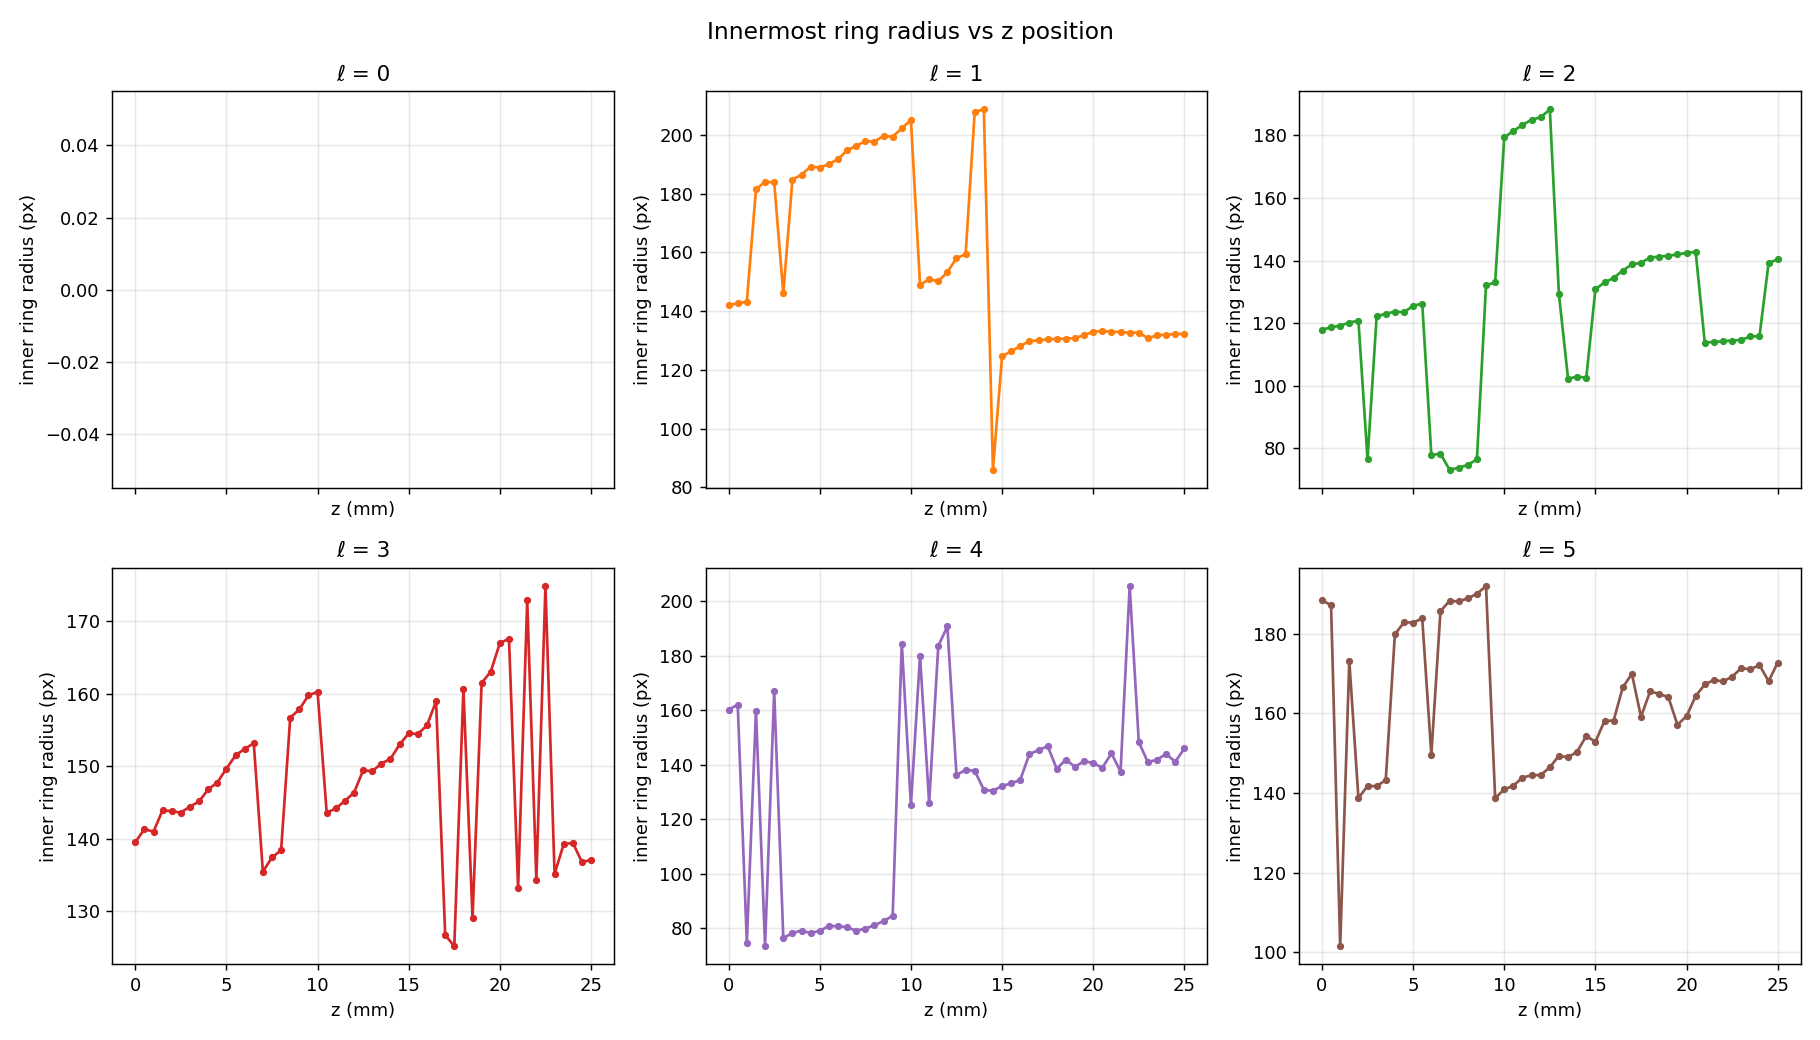
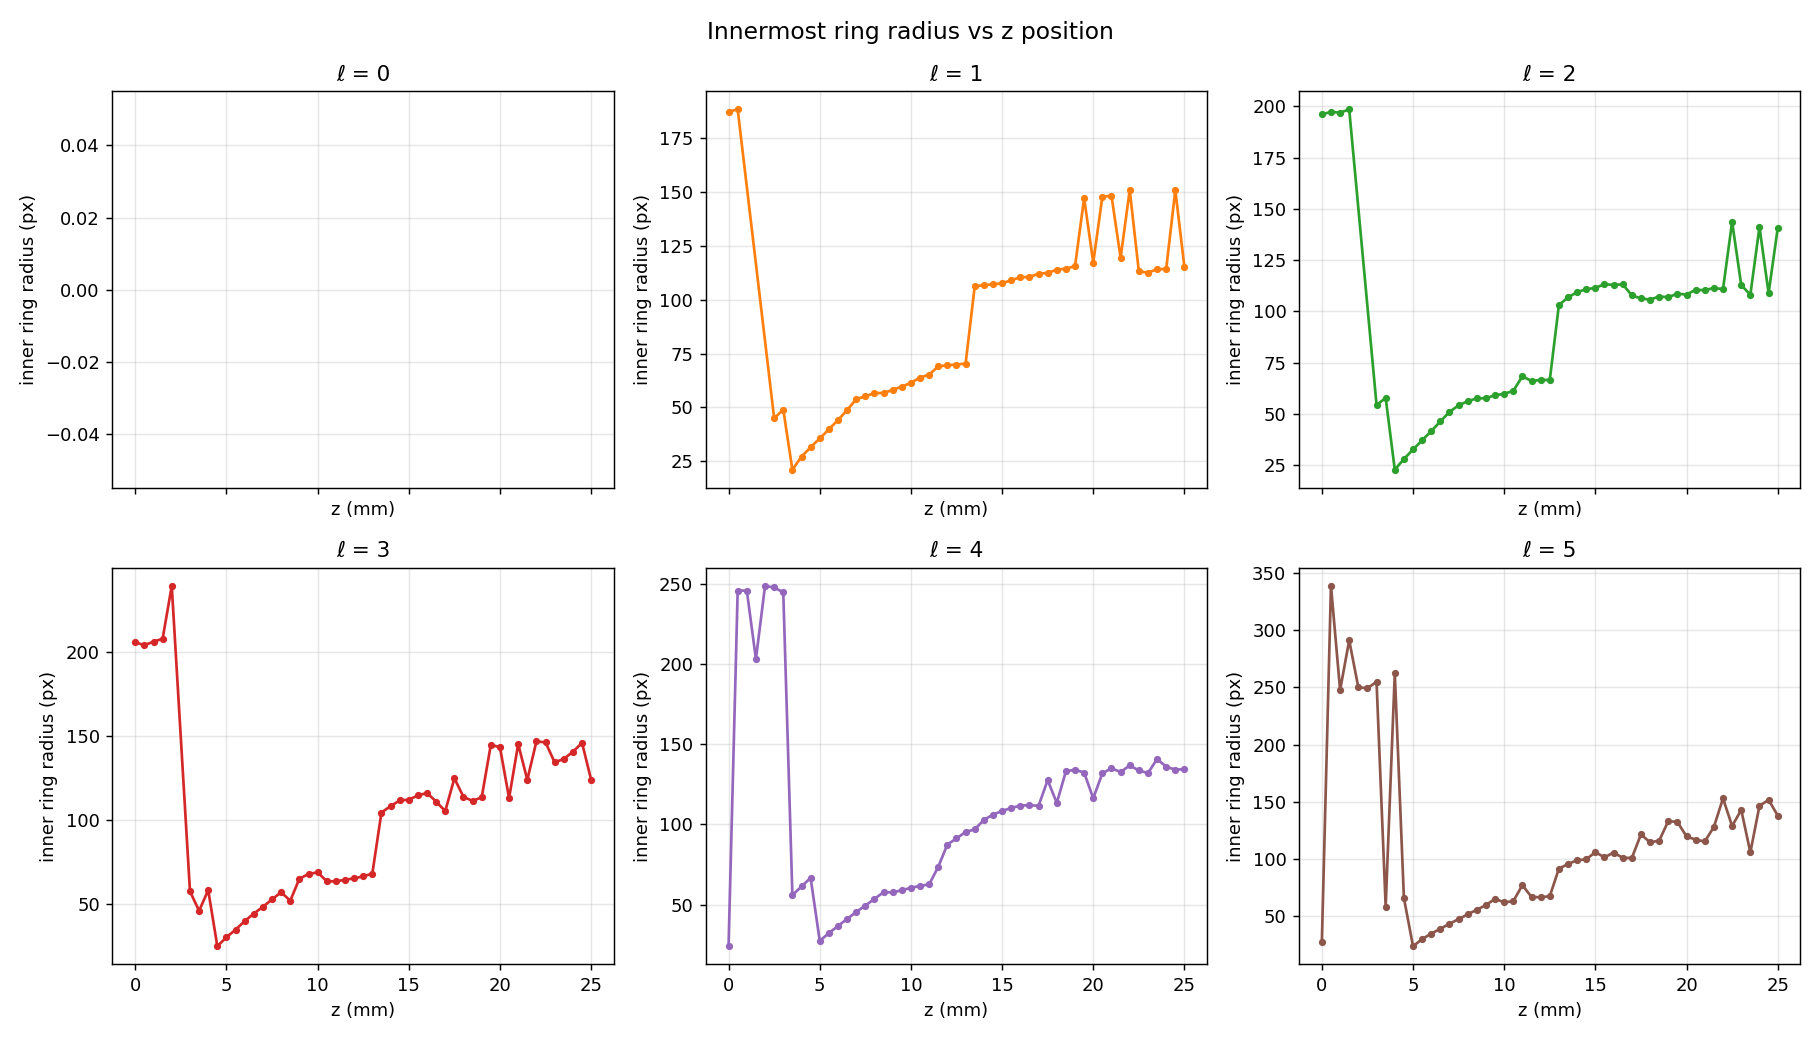
additional data analysis

diff --git a/focusing_data.py b/focusing_data.py
@@ -40,7 +40,7 @@ def _(mo):
 
 @app.cell
 def _(Path, mo, np):
-    ROOT = Path("/Users/carriecrane/GitHub/Optimal_Focusing/data/focusing_images/29_n12")
+    ROOT = Path("/Users/carriecrane/GitHub/Optimal_Focusing/data/focusing_images/29_n10")
     z_vals = np.arange(0,25.5, 0.5)
     blur = mo.ui.slider(0 , 3 , step = 0.5, value = 1.0, label = "Pre blur σ (px)")
     blur
@@ -333,7 +333,7 @@ def _(all_results, gaussian_filter, mo, np, plt, z_vals):
 
         plt.suptitle(f'ℓ = {l_val} — beam focusing sequence', y=1.02)
         plt.tight_layout()
-        plt.savefig(f"/Users/carriecrane/GitHub/Optimal_Focusing/beam_grid_l{l_val}_29.png", dpi=130)
+        plt.savefig(f"/Users/carriecrane/GitHub/Optimal_Focusing/beam_grid_l{l_val}_29_10.png", dpi=130)
         plt.close()
         print(f"saved beam_grid_l{l_val}.png")
 
